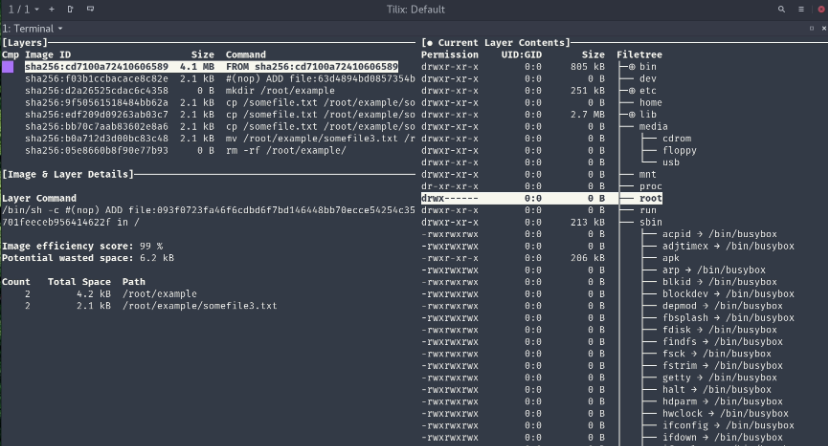
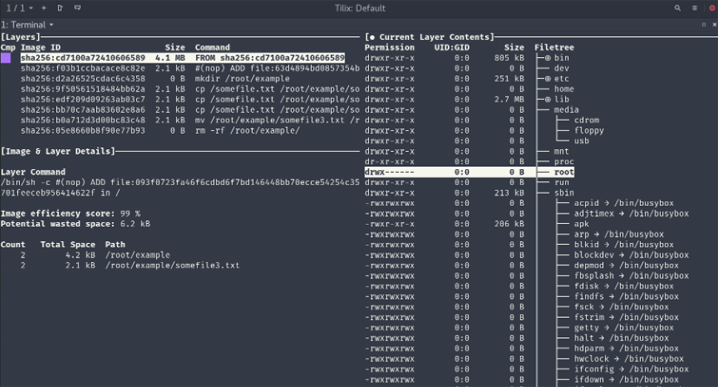
docker

diff --git a/_posts/2022-07-17-Docker.md b/_posts/2022-07-17-Docker.md
@@ -15,7 +15,7 @@ tags: [Docker]
 
 *We are going to talk about the latter today.*
 
-![Desktop View](/assets/img/HTB/Docker/docker-logo2.png){: width="913" height="608" }
+![Desktop View](/assets/img/HTB/Docker/docker-logo2.png){: width="731" height="500" }
 
 ## What's a Docker 
 Have you ever been in a scenario where you developed an application and you have to share it
@@ -117,7 +117,7 @@ Run Dive by providing the image id:
 ```
 Your Dive window should look something like the following:
 
-![Desktop View](/assets/img/HTB/Docker/Dive.png){: width="828" height="446" }
+![Desktop View](/assets/img/HTB/Docker/Dive.png){: width="718" height="387" }
 
 You can navigate through Dive using the "Up" and "Down" arrow-keys and swap between
 windows using the tab-key.
